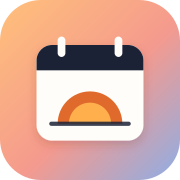
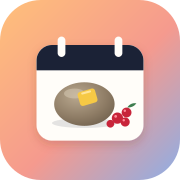
Veckopaltens ikon: palt med smör och lingon
Claude-Session: https://claude.ai/code/session_017NWQne5fhb2JGJxu4C9d4H

Changed region(s): [[0.25, 0.4444, 0.75, 0.7222]]

diff --git a/veckopalten/js/app.js b/veckopalten/js/app.js
@@ -51,7 +51,7 @@ const I = {
   google: '<svg width="20" height="20" viewBox="0 0 24 24" aria-hidden="true"><path fill="#4285F4" d="M22.5 12.3c0-.8-.1-1.5-.2-2.2H12v4.2h5.9a5 5 0 0 1-2.2 3.3v2.7h3.5c2.1-1.9 3.3-4.7 3.3-8z"/><path fill="#34A853" d="M12 23c3 0 5.5-1 7.2-2.7l-3.5-2.7c-1 .7-2.2 1-3.7 1-2.8 0-5.3-1.9-6.1-4.5H2.3v2.8A11 11 0 0 0 12 23z"/><path fill="#FBBC05" d="M5.9 14.1a6.6 6.6 0 0 1 0-4.2V7.1H2.3a11 11 0 0 0 0 9.8z"/><path fill="#EA4335" d="M12 5.4c1.6 0 3 .5 4.1 1.6l3.1-3.1A11 11 0 0 0 2.3 7.1l3.6 2.8C6.7 7.3 9.2 5.4 12 5.4z"/></svg>',
   microsoft: '<svg width="20" height="20" viewBox="0 0 24 24" aria-hidden="true"><path fill="#F25022" d="M2 2h9.5v9.5H2z"/><path fill="#7FBA00" d="M12.5 2H22v9.5h-9.5z"/><path fill="#00A4EF" d="M2 12.5h9.5V22H2z"/><path fill="#FFB900" d="M12.5 12.5H22V22h-9.5z"/></svg>',
 };
-const loggaSvg = (px, id) => `<svg width="${px}" height="${px}" viewBox="0 0 512 512" aria-hidden="true"><defs><linearGradient id="${id}g" x1="0" y1="0" x2="1" y2="1"><stop offset="0" stop-color="#FFC07A"/><stop offset=".55" stop-color="#F59A8E"/><stop offset="1" stop-color="#8DAEE6"/></linearGradient><clipPath id="${id}c"><rect x="104" y="200" width="304" height="152"/></clipPath></defs><rect width="512" height="512" rx="116" fill="url(#${id}g)"/><rect x="104" y="128" width="304" height="272" rx="44" fill="#FFFDF9"/><path d="M104 172a44 44 0 0 1 44-44h216a44 44 0 0 1 44 44v28H104z" fill="#1B2236"/><rect x="164" y="104" width="22" height="58" rx="11" fill="#FFFDF9"/><rect x="326" y="104" width="22" height="58" rx="11" fill="#FFFDF9"/><g clip-path="url(#${id}c)"><circle cx="256" cy="352" r="92" fill="#E06A2C"/><circle cx="256" cy="352" r="60" fill="#FFB04D"/></g><rect x="140" y="346" width="232" height="12" rx="6" fill="#1B2236" opacity=".85"/></svg>`;
+const loggaSvg = (px, id) => `<svg width="${px}" height="${px}" viewBox="0 0 512 512" aria-hidden="true"><defs><linearGradient id="${id}g" x1="0" y1="0" x2="1" y2="1"><stop offset="0" stop-color="#FFC07A"/><stop offset=".55" stop-color="#F59A8E"/><stop offset="1" stop-color="#8DAEE6"/></linearGradient><radialGradient id="${id}p" cx=".38" cy=".32" r=".8"><stop offset="0" stop-color="#B9A88F"/><stop offset=".6" stop-color="#8F7D66"/><stop offset="1" stop-color="#6E5E4B"/></radialGradient></defs><rect width="512" height="512" rx="116" fill="url(#${id}g)"/><rect x="104" y="128" width="304" height="272" rx="44" fill="#FFFDF9"/><path d="M104 172a44 44 0 0 1 44-44h216a44 44 0 0 1 44 44v28H104z" fill="#1B2236"/><rect x="164" y="104" width="22" height="58" rx="11" fill="#FFFDF9"/><rect x="326" y="104" width="22" height="58" rx="11" fill="#FFFDF9"/><ellipse cx="240" cy="350" rx="92" ry="14" fill="#1B2236" opacity=".12"/><ellipse cx="240" cy="296" rx="86" ry="62" fill="url(#${id}p)"/><ellipse cx="212" cy="266" rx="30" ry="14" fill="#D6C8B2" opacity=".55"/><path d="M226 262l34-10a8 8 0 0 1 10 5l7 24a8 8 0 0 1-5 10l-34 10a8 8 0 0 1-10-5l-7-24a8 8 0 0 1 5-10z" fill="#F6C945"/><g fill="#C8243A"><circle cx="334" cy="336" r="16"/><circle cx="360" cy="320" r="14"/><circle cx="356" cy="347" r="13"/><circle cx="314" cy="352" r="11"/></g><path d="M362 306c6-10 16-14 26-12-6 8-14 12-26 12z" fill="#3E7D4F"/></svg>`;
 const LOGGA = loggaSvg(32, 'lg');
 const LOGGA_STOR = loggaSvg(72, 'ls');
 
